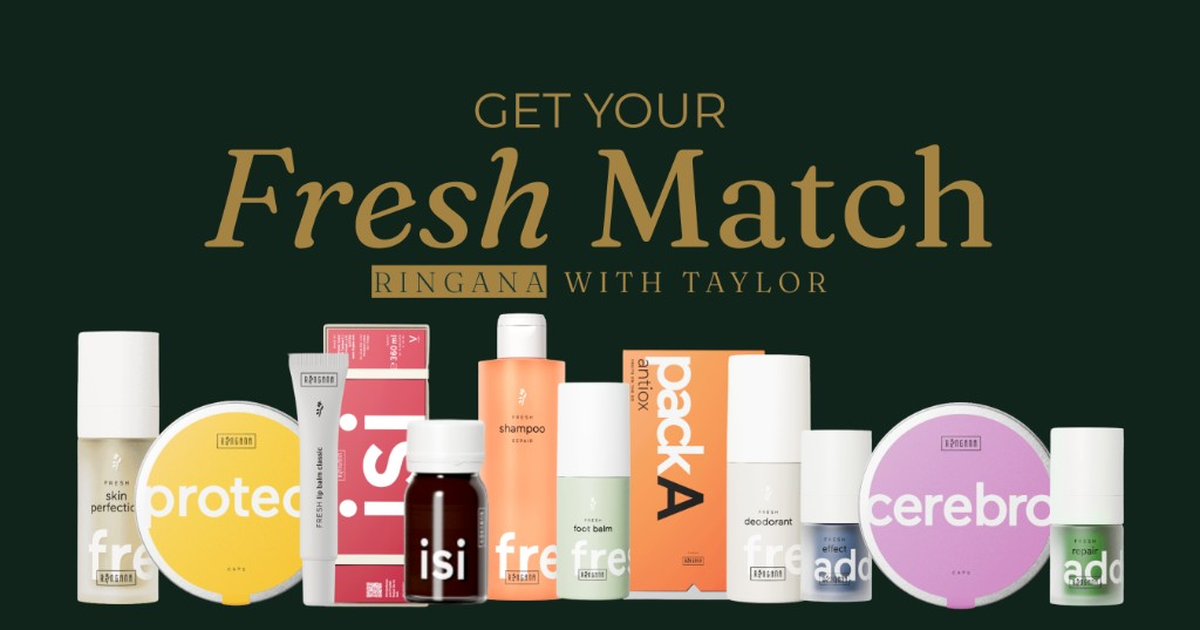
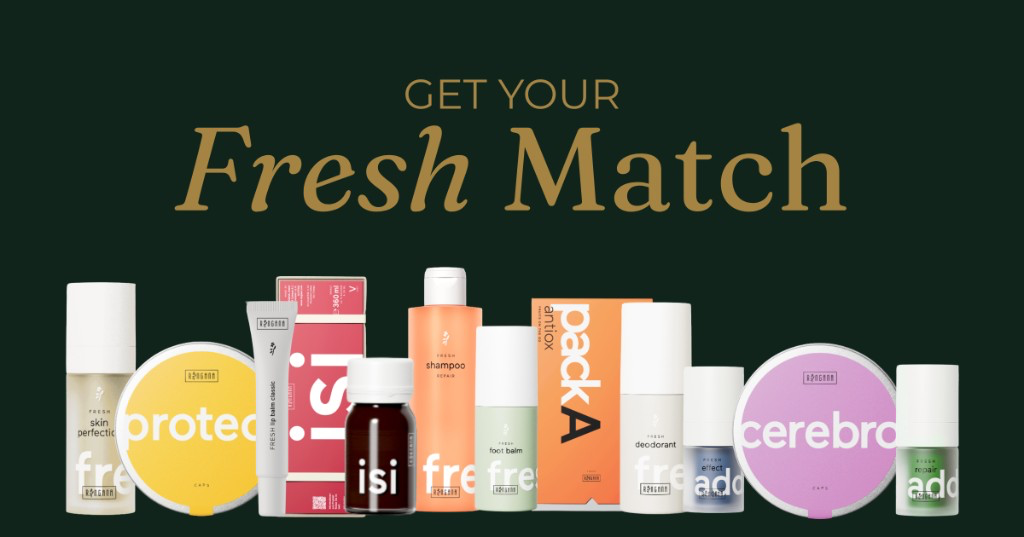
Update share preview image for The Fresh Grove.
Swap in the new Get your Fresh Match graphic and point Open Graph URLs at the go-evergreen Pages site.

Changed region(s): [[0.2812, 0.4171, 0.6875, 0.4767]]

diff --git a/index.html b/index.html
@@ -12,15 +12,15 @@
     <meta property="og:title" content="Get your Fresh Match — The Fresh Grove" />
     <meta property="og:description" content="A two-minute quiz that matches you to Ringana products — with the real actives, how to use them, and links to ringana.com." />
     <meta property="og:type" content="website" />
-    <meta property="og:url" content="https://tayrourke.github.io/the-fresh-match/" />
-    <meta property="og:image" content="https://tayrourke.github.io/the-fresh-match/og-fresh-match-canva.png" />
-    <meta property="og:image:width" content="1200" />
-    <meta property="og:image:height" content="630" />
+    <meta property="og:url" content="https://go-evergreen.github.io/the-fresh-match/" />
+    <meta property="og:image" content="https://go-evergreen.github.io/the-fresh-match/og-fresh-match-canva.png" />
+    <meta property="og:image:width" content="1024" />
+    <meta property="og:image:height" content="537" />
     <meta property="og:image:alt" content="Get your Fresh Match — The Fresh Grove" />
     <meta name="twitter:card" content="summary_large_image" />
     <meta name="twitter:title" content="Get your Fresh Match — The Fresh Grove" />
     <meta name="twitter:description" content="A two-minute quiz that matches you to Ringana products." />
-    <meta name="twitter:image" content="https://tayrourke.github.io/the-fresh-match/og-fresh-match-canva.png" />
+    <meta name="twitter:image" content="https://go-evergreen.github.io/the-fresh-match/og-fresh-match-canva.png" />
     <link rel="preconnect" href="https://fonts.googleapis.com" />
     <link rel="preconnect" href="https://fonts.gstatic.com" crossorigin />
     <link href="https://fonts.googleapis.com/css2?family=Fraunces:ital,opsz,wght@0,9..144,300;0,9..144,400;0,9..144,500;0,9..144,600;1,9..144,400;1,9..144,500&family=Work+Sans:wght@300;400;500;600&display=swap" rel="stylesheet" />

diff --git a/src/App.jsx b/src/App.jsx
@@ -24,7 +24,7 @@ import "./index.css";
 const QUIZ_URL =
   typeof window !== "undefined"
     ? `${window.location.origin}${window.location.pathname}`
-    : "https://tayrourke.github.io/the-fresh-match/";
+    : "https://go-evergreen.github.io/the-fresh-match/";
 
 const PATHS = [
   {
